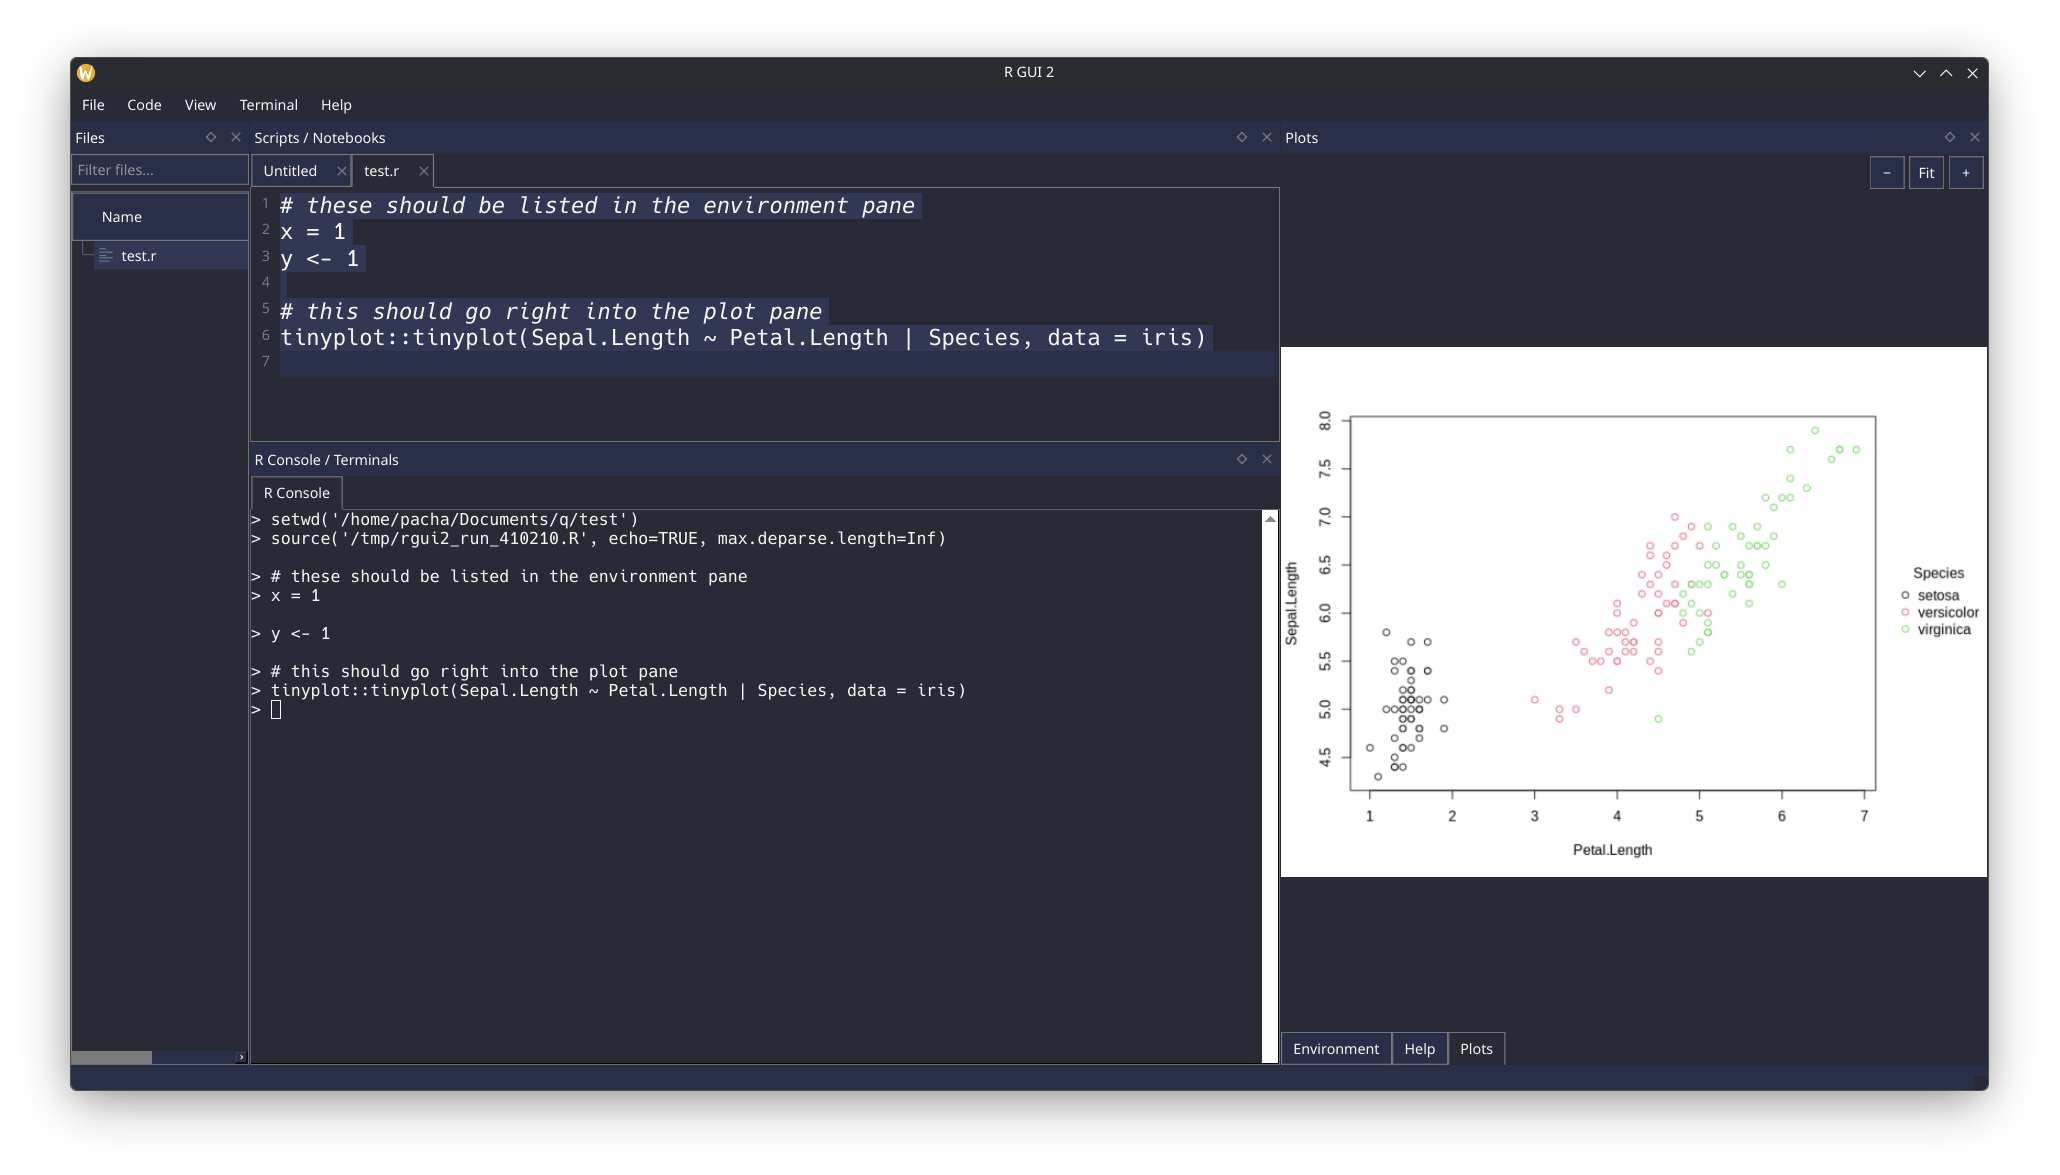
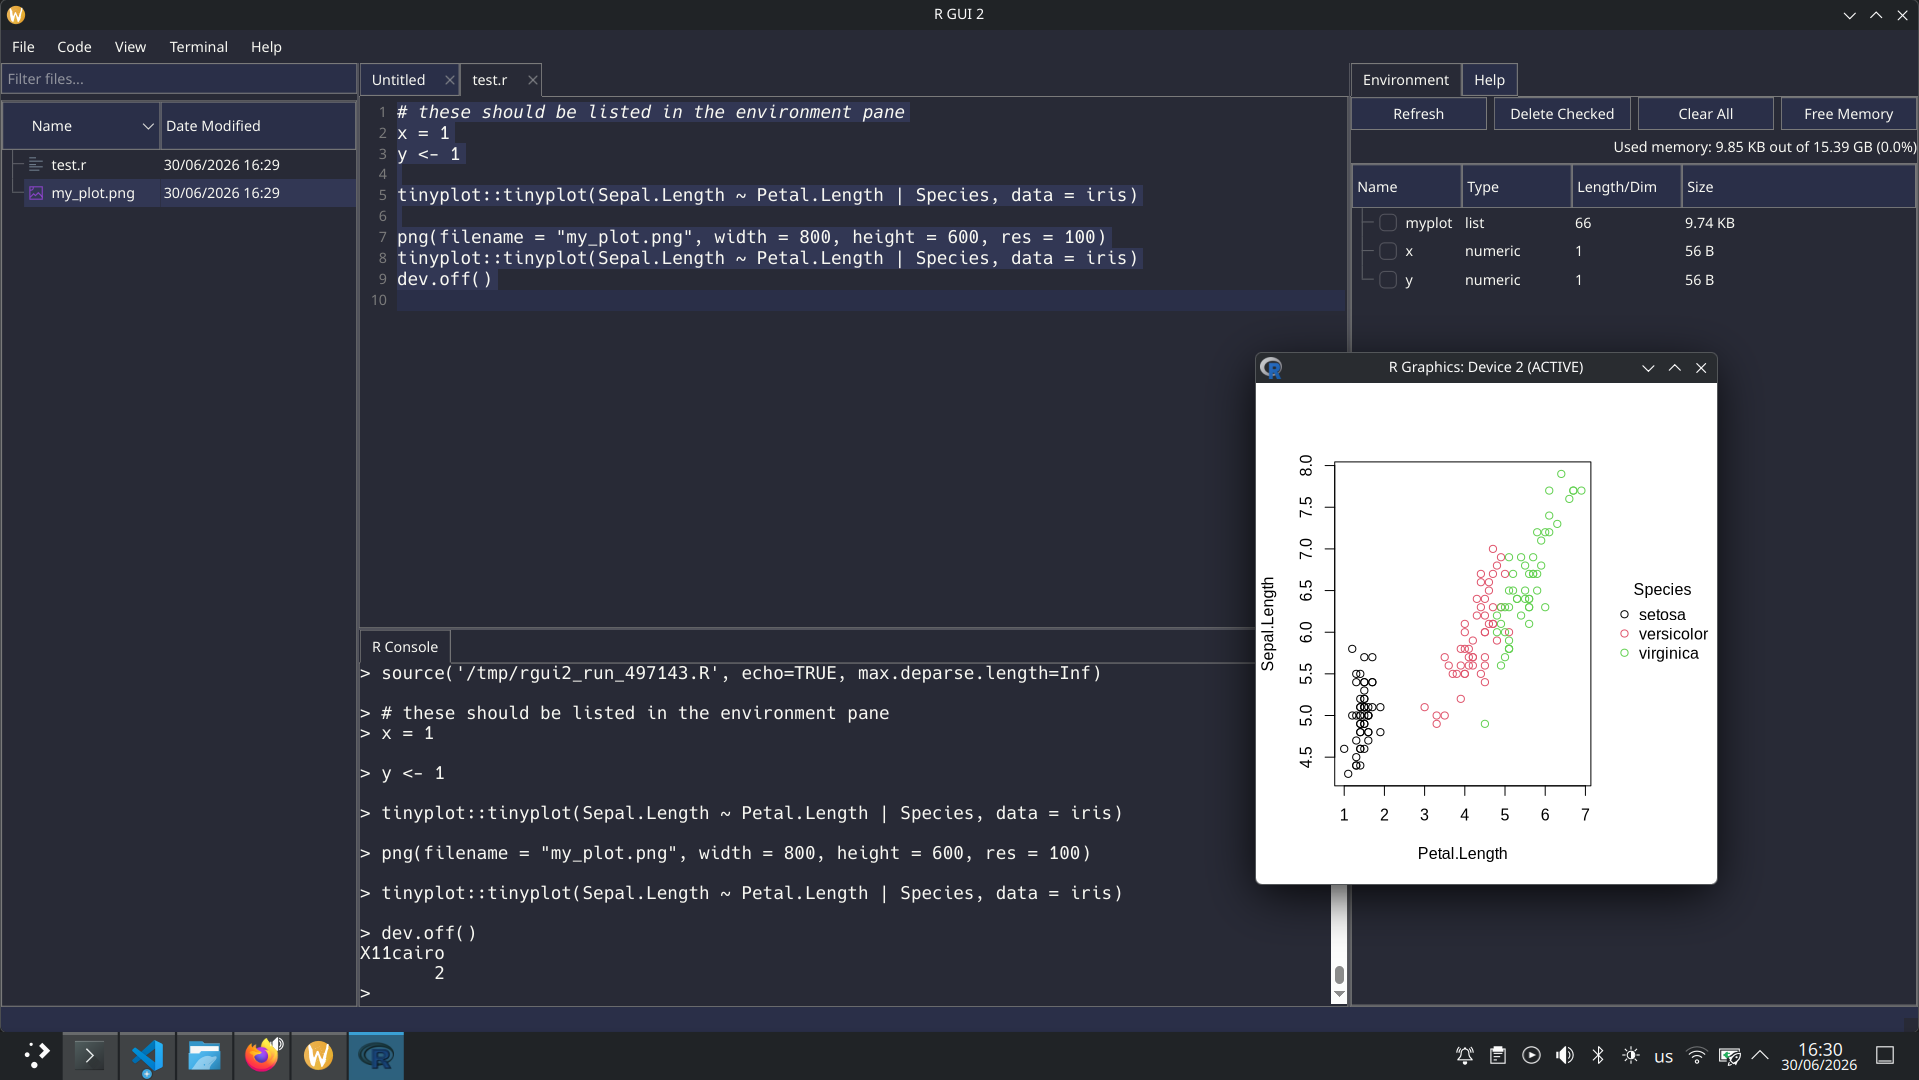
remove plot pane

diff --git a/src/terminalwidget.cpp b/src/terminalwidget.cpp
@@ -109,8 +109,7 @@ private:
 // ── Shared R init-script helper ───────────────────────────────────────────────
 // Writes the R profile init script and populates env list entries.
 
-static QString setupREnv(QStringList &env, const QProcessEnvironment &sysEnv,
-                         const QString &plotDir)
+static QString setupREnv(QStringList &env, const QProcessEnvironment &sysEnv)
 {
     QString pid      = QString::number(QCoreApplication::applicationPid());
     QString initPath = QDir::tempPath() + "/rgui2_init_" + pid + ".R";
@@ -137,51 +136,6 @@ static QString setupREnv(QStringList &env, const QProcessEnvironment &sysEnv,
         << "      url_file   = Sys.getenv('RGUI2_HELP_URL_FILE',   unset='/tmp/rgui2_help_url')\n"
         << "    ), error = function(e) NULL)\n"
         << "  }\n"
-        << "\n"
-        << "  # ── R GUI plot capture ────────────────────────────────────────────────────\n"
-        << "  local({\n"
-        << "    plot_dir <- Sys.getenv('RGUI2_PLOT_DIR', unset = file.path(tempdir(), 'rgui2_plots'))\n"
-        << "    dir.create(plot_dir, showWarnings = FALSE, recursive = TRUE)\n"
-        << "    index_file <- file.path(plot_dir, 'rgui2_plot_index.txt')\n"
-        << "    dev_counter  <- 0L\n"
-        << "    snap_counter <- 0L\n"
-        << "    last_snap_size <- -1L\n"
-        << "\n"
-        << "    options(device = function(width = 7, height = 5, ...) {\n"
-        << "      dev_counter <<- dev_counter + 1L\n"
-        << "      fname <- file.path(plot_dir, sprintf('rgui2_dev_%06d.png', dev_counter))\n"
-        << "      grDevices::png(fname,\n"
-        << "                     width  = round(width  * 96),\n"
-        << "                     height = round(height * 96),\n"
-        << "                     res    = 96, ...)\n"
-        << "      grDevices::dev.control(displaylist = 'enable')\n"
-        << "      invisible(NULL)\n"
-        << "    })\n"
-        << "\n"
-        << "    addTaskCallback(function(expr, value, ok, visible) {\n"
-        << "      if (grDevices::dev.cur() != 1L) {\n"
-        << "        tryCatch({\n"
-        << "          recorded <- grDevices::recordPlot()\n"
-        << "          if (length(recorded[[1]]) > 0L) {\n"
-        << "            curr_file <- file.path(plot_dir, 'rgui2_current.png')\n"
-        << "            grDevices::png(curr_file, width=800L, height=600L, res=96L)\n"
-        << "            grDevices::replayPlot(recorded)\n"
-        << "            grDevices::dev.off()\n"
-        << "            new_size <- file.size(curr_file)\n"
-        << "            if (!identical(new_size, last_snap_size)) {\n"
-        << "              last_snap_size <<- new_size\n"
-        << "              snap_counter <<- snap_counter + 1L\n"
-        << "              snap_file <- file.path(plot_dir,\n"
-        << "                                     sprintf('rgui2_snap_%06d.png', snap_counter))\n"
-        << "              file.copy(curr_file, snap_file, overwrite = TRUE)\n"
-        << "              writeLines(snap_file, index_file)\n"
-        << "            }\n"
-        << "          }\n"
-        << "        }, error = function(e) NULL)\n"
-        << "      }\n"
-        << "      TRUE\n"
-        << "    }, name = 'rgui2_plot_capture')\n"
-        << "  })\n"
         << "})\n";
     f.close();
 
@@ -189,7 +143,6 @@ static QString setupREnv(QStringList &env, const QProcessEnvironment &sysEnv,
     if (!origProf.isEmpty())
         env << "RGUI2_ORIGINAL_R_PROFILE_USER=" + origProf;
     env << "R_PROFILE_USER=" + initPath;
-    env << "RGUI2_PLOT_DIR=" + plotDir;
     env << "RGUI2_ENV_FILE=" + QDir::tempPath() + "/rgui2_env.json";
     return initPath;
 }
@@ -270,20 +223,17 @@ TerminalWidget::TerminalWidget(const QString &shell, QWidget *parent)
 
     // ── Build child environment ─────────────────────────────────────────────
     QProcessEnvironment sysEnv = QProcessEnvironment::systemEnvironment();
-    QString plotDir = QDir::tempPath() + "/rgui2_plots";
-    QDir().mkpath(plotDir);
 
 #ifdef Q_OS_WIN
     // On Windows the child inherits the parent's environment via CreateProcess.
     // We set needed variables directly in the parent before spawning.
-    SetEnvironmentVariableW(L"RGUI2_PLOT_DIR", plotDir.toStdWString().c_str());
     SetEnvironmentVariableW(L"RGUI2_ENV_FILE",
         (QDir::tempPath() + "/rgui2_env.json").toStdWString().c_str());
     {
         QString base = QFileInfo(shellPath).baseName().toLower();
         if (base == "r" || base == "rterm") {
             QStringList dummy;
-            QString initPath = setupREnv(dummy, sysEnv, plotDir);
+            QString initPath = setupREnv(dummy, sysEnv);
             if (!initPath.isEmpty()) {
                 QString orig = sysEnv.value("R_PROFILE_USER");
                 if (!orig.isEmpty())
@@ -302,11 +252,10 @@ TerminalWidget::TerminalWidget(const QString &shell, QWidget *parent)
     }
     envList << "LANG=en_US.UTF-8"
             << "LC_ALL=en_US.UTF-8"
-            << "TERM=xterm-256color"
-            << "RGUI2_PLOT_DIR=" + plotDir;
+            << "TERM=xterm-256color";
 
     if (QFileInfo(shellPath).fileName().toLower() == "r")
-        setupREnv(envList, sysEnv, plotDir);
+        setupREnv(envList, sysEnv);
 #endif
 
     // ── Set up QWebChannel ──────────────────────────────────────────────────

diff --git a/src/terminalwidget_win.cpp b/src/terminalwidget_win.cpp
@@ -240,11 +240,6 @@ void TerminalWidget::startPty(const QString &shell, const QStringList &args)
     pty->hPtyIn  = hIn_w;
     pty->hPtyOut = hOut_r;
 
-    // Set RGUI2_PLOT_DIR so R's plot-capture hook works on Windows too
-    QString plotDir = QDir::tempPath() + "/rgui2_plots";
-    QDir().mkpath(plotDir);
-    SetEnvironmentVariableW(L"RGUI2_PLOT_DIR", plotDir.toStdWString().c_str());
-
     // If launching R/Rterm, inject the same init script the Unix build uses
     QString baseName = QFileInfo(shell).baseName().toLower();
     if (baseName == "r" || baseName == "rterm") {
@@ -266,35 +261,6 @@ void TerminalWidget::startPty(const QString &shell, const QStringList &args)
                 << "    library(rgui2)\n"
                 << "    rgui2::init_monitor(file.path(tempdir(), 'rgui2_env.json'))\n"
                 << "  }\n"
-                << "  local({\n"
-                << "    plot_dir <- Sys.getenv('RGUI2_PLOT_DIR', unset=file.path(tempdir(),'rgui2_plots'))\n"
-                << "    dir.create(plot_dir, showWarnings=FALSE, recursive=TRUE)\n"
-                << "    index_file <- file.path(plot_dir, 'rgui2_plot_index.txt')\n"
-                << "    snap_counter <- 0L; last_snap_size <- -1L\n"
-                << "    options(device = function(width=7, height=5, ...) {\n"
-                << "      grDevices::png(file.path(plot_dir, sprintf('rgui2_dev_%06d.png', snap_counter+1L)),\n"
-                << "        width=round(width*96), height=round(height*96), res=96, ...)\n"
-                << "      grDevices::dev.control(displaylist='enable')\n"
-                << "    })\n"
-                << "    addTaskCallback(function(expr, value, ok, visible) {\n"
-                << "      if (grDevices::dev.cur() != 1L) {\n"
-                << "        tryCatch({\n"
-                << "          rec <- grDevices::recordPlot()\n"
-                << "          if (length(rec[[1]]) > 0L) {\n"
-                << "            curr <- file.path(plot_dir, 'rgui2_current.png')\n"
-                << "            grDevices::png(curr, width=800L, height=600L, res=96L)\n"
-                << "            grDevices::replayPlot(rec); grDevices::dev.off()\n"
-                << "            ns <- file.size(curr)\n"
-                << "            if (!identical(ns, last_snap_size)) {\n"
-                << "              last_snap_size <<- ns; snap_counter <<- snap_counter+1L\n"
-                << "              sf <- file.path(plot_dir, sprintf('rgui2_snap_%06d.png', snap_counter))\n"
-                << "              file.copy(curr, sf, overwrite=TRUE); writeLines(sf, index_file)\n"
-                << "            }\n"
-                << "          }\n"
-                << "        }, error=function(e) NULL)\n"
-                << "      }; TRUE\n"
-                << "    }, name='rgui2_plot_capture')\n"
-                << "  })\n"
                 << "})\n";
             f.close();
 
@@ -340,7 +306,7 @@ void TerminalWidget::startPty(const QString &shell, const QStringList &args)
         nullptr, nullptr,
         FALSE,
         EXTENDED_STARTUPINFO_PRESENT | CREATE_UNICODE_ENVIRONMENT,
-        nullptr,    // inherit parent environment (includes RGUI2_PLOT_DIR etc.)
+        nullptr,    // inherit parent environment
         nullptr,    // inherit working directory
         &si.StartupInfo,
         &pi);

diff --git a/src/mainwindow.cpp b/src/mainwindow.cpp
@@ -3,7 +3,6 @@
 #include "filebrowser.h"
 #include "terminalwidget.h"
 #include "environmentpane.h"
-#include "plotpane.h"
 #include "helppane.h"
 #include "thememanager.h"
 
@@ -18,7 +17,6 @@
 #include <QMenu>
 #include <QFileInfo>
 #include <QTimer>
-#include <QStandardPaths>
 #include <QApplication>
 #include <QSplitter>
 #include <QEvent>
@@ -68,18 +66,14 @@ MainWindow::MainWindow(QWidget *parent)
     m_centerSplitter->addWidget(consoleTabs);
     m_centerSplitter->setChildrenCollapsible(false);
 
-    // ── Left: file browser ────────────────────────────────────────────────────
+    // ── Left: file browser ───────────────────────────────────────────────────
     fileBrowser = new FileBrowser(this);
 
-    // ── Right: tabbed pane (Help / Environment / Plots) ──────────────────────
-    QString plotDir = QDir(QStandardPaths::writableLocation(QStandardPaths::TempLocation))
-                          .filePath("rgui2_plots");
+    // ── Right: tabbed pane (Help / Environment) ──────────────────────────────
     envPane  = new EnvironmentPane(console, this);
-    plotPane = new PlotPane(plotDir, this);
     helpPane = new HelpPane(console, this);
     m_rightTabs = new QTabWidget(this);
     m_rightTabs->addTab(envPane,   tr("Environment"));
-    m_rightTabs->addTab(plotPane,  tr("Plots"));
     m_rightTabs->addTab(helpPane,  tr("Help"));
 
     // ── Outer horizontal splitter (left | center | right) ────────────────────

diff --git a/src/mainwindow.h b/src/mainwindow.h
@@ -11,7 +11,6 @@ class CodeEditor;
 class FileBrowser;
 class TerminalWidget;
 class EnvironmentPane;
-class PlotPane;
 class HelpPane;
 
 class MainWindow : public QMainWindow
@@ -61,7 +60,6 @@ private:
     TerminalWidget  *console     = nullptr;
     FileBrowser     *fileBrowser = nullptr;
     EnvironmentPane *envPane     = nullptr;
-    PlotPane        *plotPane    = nullptr;
     HelpPane        *helpPane    = nullptr;
 
     // Menus